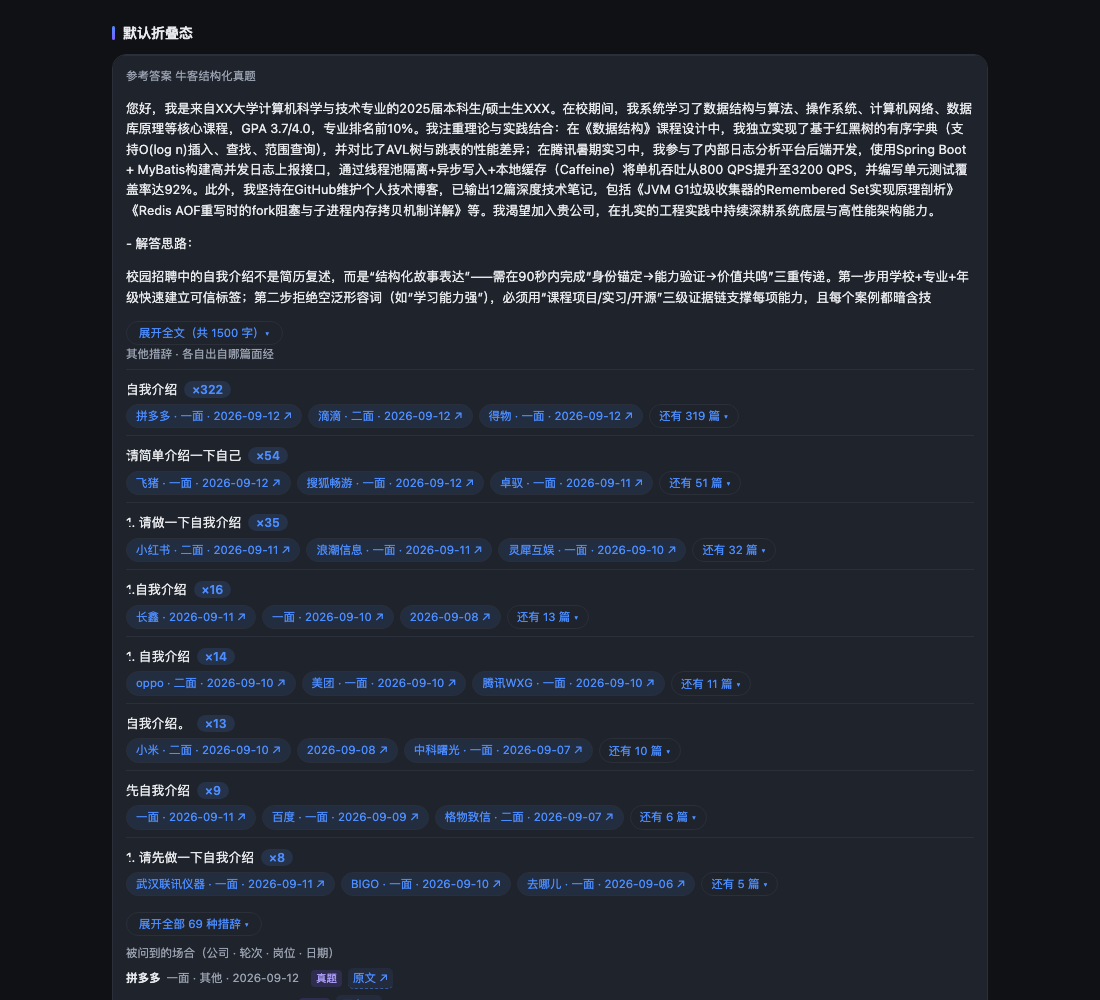
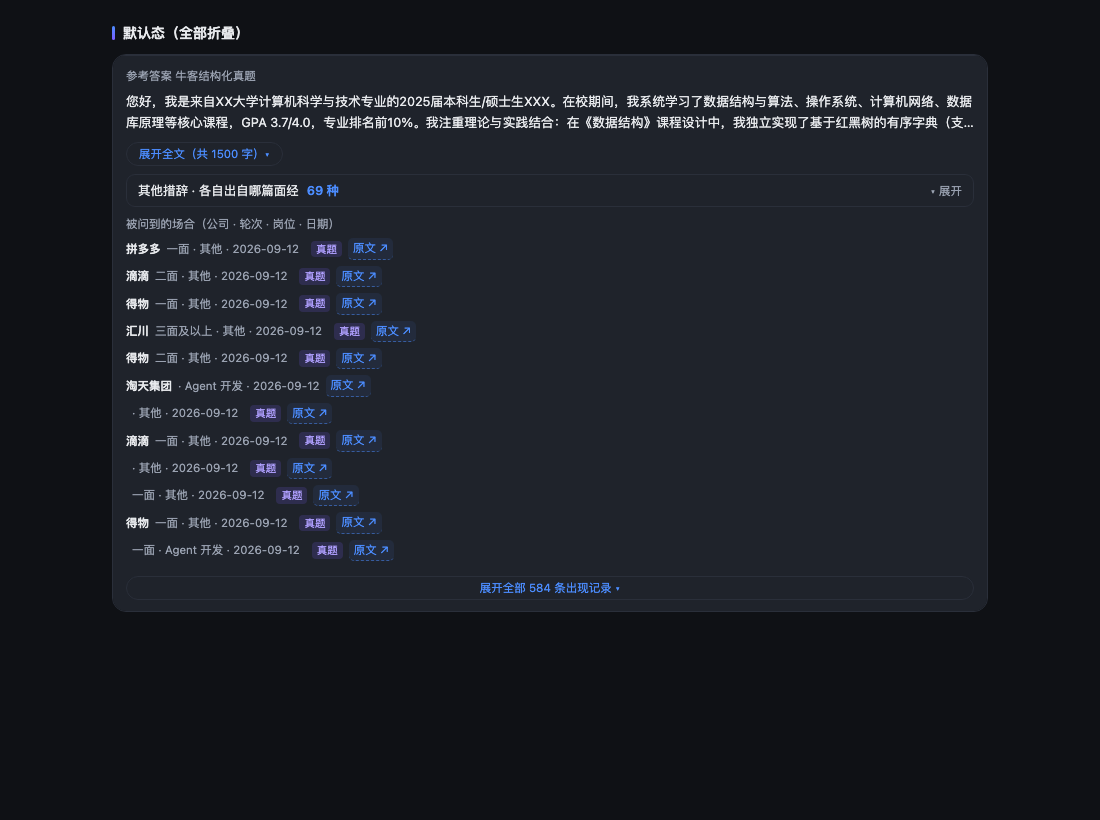
问题卡片：其他措辞整体折叠，参考答案只露两行
两处调整：

1)「其他措辞 · 各自出自哪篇面经」整个模块默认收起，只留一行标题条
   「其他措辞 · 各自出自哪篇面经  69 种  ▾ 展开」。点开后才列前 8 种
   （每种再只列前 3 篇出处）。之前只是把内部列表折叠了，模块本身仍占十几行。

2) 参考答案从「前 600 字」改成**固定两行**。
   用 CSS line-clamp 裁，而不是猜字数——猜的话窄窗口会变成四行、
   宽窗口只有一行半。DOM 里仍只塞 400 字，不让看不见的部分白占体积。
   展开后给「收起 ▴」可以合回去。

卡片默认态：9,987 → **约 3.5KB / 66 行**（最初是 244KB / 3000 行）。

diff --git a/web/app.js b/web/app.js
@@ -167,6 +167,24 @@ function bindExpand(container) {
       refreshVariants(vLess.closest('.q'));
       return;
     }
+    const vSec = e.target.closest('[data-varsec]');
+    if (vSec) {
+      e.stopPropagation();
+      const qid = vSec.dataset.varsec;
+      if (varSecOpen.has(qid)) varSecOpen.delete(qid); else varSecOpen.add(qid);
+      refreshVariants(vSec.closest('.q'));
+      return;
+    }
+    const aLess = e.target.closest('[data-ans-less]');
+    if (aLess) {
+      e.stopPropagation();
+      const qid = aLess.dataset.ansLess;
+      ansOpen.delete(qid);
+      const card = aLess.closest('.q');
+      const ab = card.querySelector(`[data-ans-box="${qid}"]`);
+      if (ab && card._q) ab.innerHTML = answerBlockFull(card._q, qid);
+      return;
+    }
     const oAll = e.target.closest('[data-occ-all]');
     if (oAll) {
       e.stopPropagation();
@@ -305,20 +323,31 @@ function renderVariantPreview(q) {
 // 「自我介绍一下。」有 322 种措辞、出处加起来上千条，全铺开就是几百行。
 // 所以默认只列前 VAR_SHOW 种、每种只列前 VSRC_SHOW 篇，其余按需展开。
 const VAR_SHOW = 8;
-// 参考答案折叠阈值。答案长度分布很集中：94% 的题在 1,500~3,000 字（平均 1,935），
-// 全铺开会把卡片撑成「一屏答案 + 一点点别的」。默认只给前 ANSWER_FOLD 字。
-const ANSWER_FOLD = 600;
+// 参考答案默认只露两行——用 CSS line-clamp 裁，所以不论窗口多宽都正好两行；
+// 这里只保证 DOM 里塞的字够撑满两行。94% 的题答案在 1,500~3,000 字，全铺开就是一屏。
+const ANSWER_PREVIEW_RUNES = 400;
 // 出现记录同样要折叠：高频题动辄几百条（「自我介绍一下。」有 584 条），
 // 全铺开是 160KB / 2900 行——比措辞还夸张。
 const OCC_SHOW = 12;
-const occOpen = new Set();
-const ansOpen = new Set();
 const VSRC_SHOW = 3;
-const varOpen = new Set();   // 已展开全部措辞的题目 id
-const vsrcOpen = new Set();  // 已展开全部出处的 "题目id:第几种"
+const occOpen = new Set();
+const ansOpen = new Set();     // 已展开完整答案的题目 id
+const varOpen = new Set();     // 已展开「全部 N 种」的题目 id
+const varSecOpen = new Set();  // 已展开「其他措辞」整个模块的题目 id
+const vsrcOpen = new Set();    // 已展开全部出处的 "题目id:第几种"
 
 function renderVariantSources(sources, occs, qid) {
   if (!sources || !sources.length) return '';
+  const n = sources.length;
+  // 模块整体默认收起：这是展开卡片里最长的一块，先只给一行标题，想看再点开。
+  // 点开之后仍只列前 VAR_SHOW 种（每种再只列前 VSRC_SHOW 篇）。
+  const secOpen = varSecOpen.has(qid);
+  const head = `<button class="sec-toggle" data-varsec="${qid}">`
+    + `<span>其他措辞 · 各自出自哪篇面经</span>`
+    + `<span class="sec-n">${n} 种</span>`
+    + `<span class="sec-arrow">${secOpen ? '▴ 收起' : '▾ 展开'}</span></button>`;
+  if (!secOpen) return head;
+
   const byPost = {};
   (occs || []).forEach((o) => { byPost[o.postId] = o; });
 
@@ -337,36 +366,40 @@ function renderVariantSources(sources, occs, qid) {
     const rest = refsAll.length - refs.length;
     const restBtn = rest > 0
       ? `<button class="vsrc-more" data-vsrc="${key}">还有 ${rest} 篇 ▾</button>` : '';
-    const n = (v.postIds || []).length;
+    const cnt = (v.postIds || []).length;
     // 出现次数是判断「这条措辞可不可信」的主要线索，所以单独做成醒目的角标
     return `<div class="var-item">
-      <div class="var">${esc(v.text)}${n > 1 ? `<span class="var-n">×${n}</span>` : ''}</div>
+      <div class="var">${esc(v.text)}${cnt > 1 ? `<span class="var-n">×${cnt}</span>` : ''}</div>
       <div class="vsrc-list">${chips}${restBtn}</div>
     </div>`;
   }).join('');
 
-  const hidden = sources.length - shown.length;
+  const hidden = n - shown.length;
   let foot = '';
   if (hidden > 0) {
-    foot = `<button class="var-more" data-var="${qid}">展开全部 ${sources.length} 种措辞 ▾</button>`;
-  } else if (allVar && sources.length > VAR_SHOW) {
+    foot = `<button class="var-more" data-var="${qid}">展开全部 ${n} 种措辞 ▾</button>`;
+  } else if (allVar && n > VAR_SHOW) {
     foot = `<button class="var-more" data-varless="${qid}">收起 ▴</button>`;
   }
-  return `<div class="lb">其他措辞 · 各自出自哪篇面经</div>${items}${foot}`;
+  return head + items + foot;
 }
 
-// answerBlockFull 渲染参考答案：过长时先给前 ANSWER_FOLD 字，其余按需展开。
 function answerBlockFull(q, id) {
   const txt = q.answer || '';
   if (!txt) return '';
   const head = `<div class="lb ans-lb">参考答案 <span class="ans-src">牛客结构化真题</span></div>`;
   const runes = Array.from(txt);
-  if (ansOpen.has(id) || runes.length <= ANSWER_FOLD) return head + answerParas(txt);
-  return head + answerParas(runes.slice(0, ANSWER_FOLD).join(''))
+  if (ansOpen.has(id)) {
+    return head + answerParas(txt)
+      + `<button class="var-more" data-ans-less="${id}">收起 ▴</button>`;
+  }
+  // 折叠态：塞 400 字再交给 CSS 裁成两行（猜字数的话，窄窗口会变四行、宽窗口一行半）
+  const preview = runes.slice(0, ANSWER_PREVIEW_RUNES).join('').replace(/\s*\n+\s*/g, ' ').trim();
+  return head
+    + `<div class="ans-clamp">${esc(preview)}</div>`
     + `<button class="var-more" data-ans-expand="${id}">展开全文（共 ${runes.length} 字）▾</button>`;
 }
 
-// refreshOcc 只重画出现记录块。
 function refreshOcc(card) {
   const q = card && card._q;
   if (!q) return;

diff --git a/web/style.css b/web/style.css
@@ -288,3 +288,17 @@ td.mx-tot,th.mx-tot{color:var(--dim);background:var(--card2);font-weight:600}
 .vsrc-more{padding:2px 9px}
 .var-more:hover,.vsrc-more:hover{border-color:var(--acc);background:rgba(var(--acc-rgb),.16)}
 @media print{.var-more,.vsrc-more{display:none}}
+
+/* 折叠后的参考答案：固定两行。
+   用 line-clamp 而不是「截前 N 个字」——后者在不同宽度下会是 1 行或 4 行。 */
+.ans-clamp{display:-webkit-box;-webkit-line-clamp:2;-webkit-box-orient:vertical;
+ overflow:hidden;color:var(--fg);line-height:1.65}
+
+/* 可折叠小节的标题条（目前用于「其他措辞」整体开合） */
+.sec-toggle{display:flex;align-items:center;gap:8px;width:100%;text-align:left;font-family:inherit;
+ background:var(--card2);color:var(--fg);border:1px solid var(--line);border-radius:9px;
+ padding:7px 11px;font-size:12.5px;cursor:pointer;margin:8px 0 6px}
+.sec-toggle:hover{border-color:var(--acc)}
+.sec-n{color:var(--acc);font-weight:600}
+.sec-arrow{margin-left:auto;color:var(--dim);font-size:11.5px}
+@media print{.sec-toggle{display:none}.ans-clamp{-webkit-line-clamp:unset;overflow:visible}}
